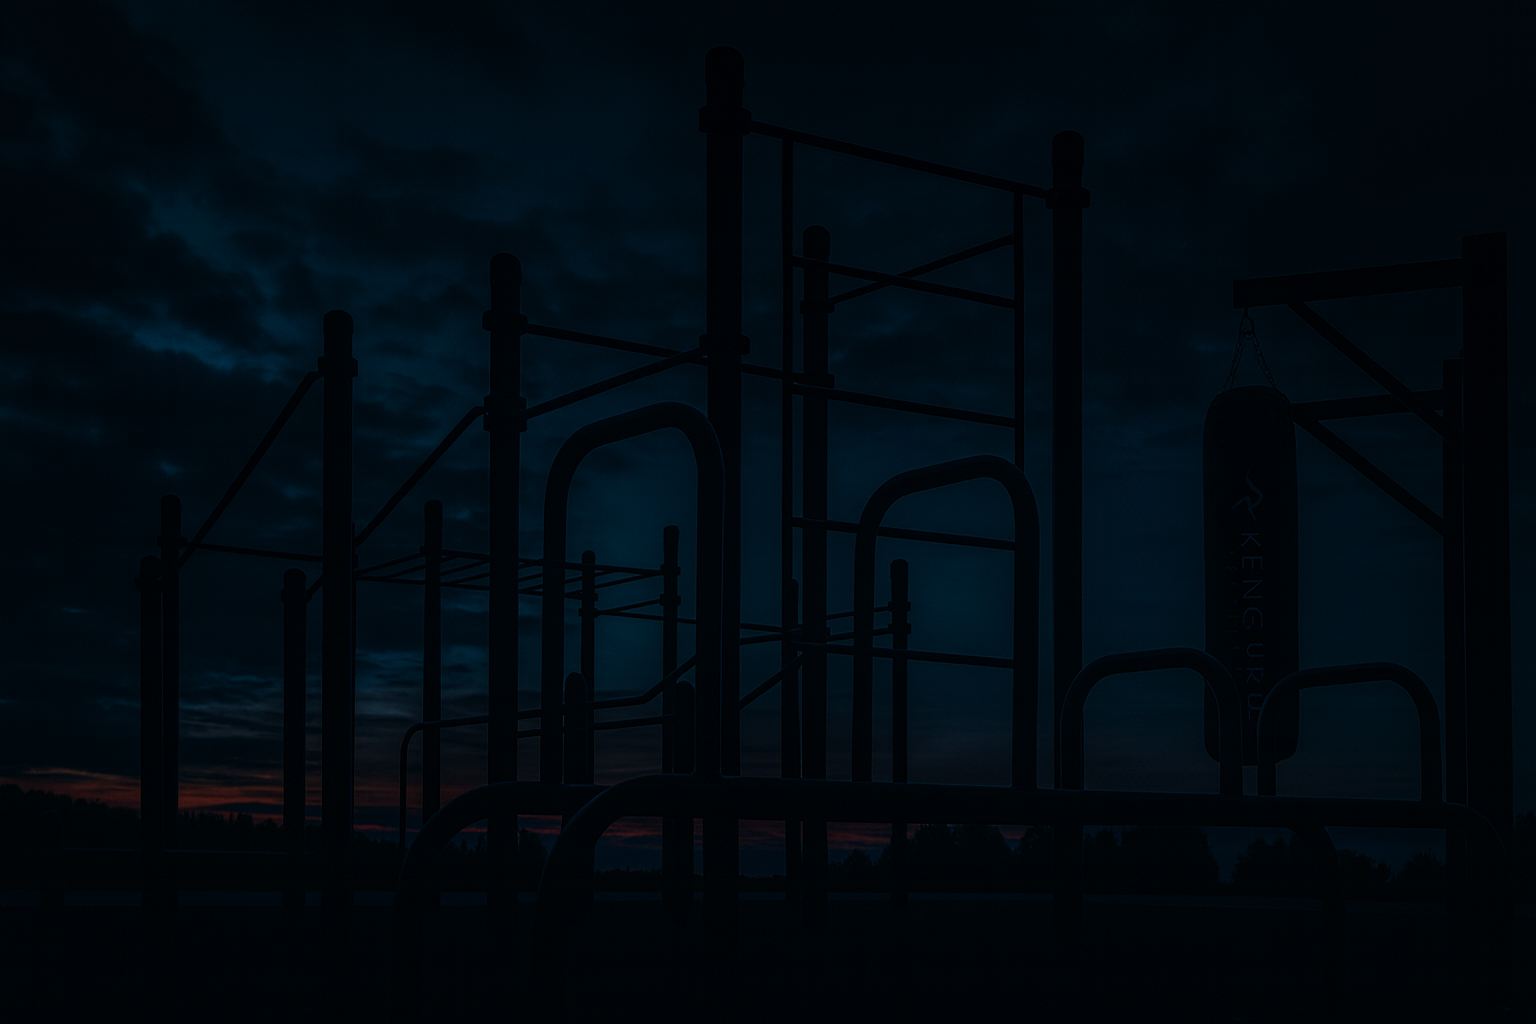
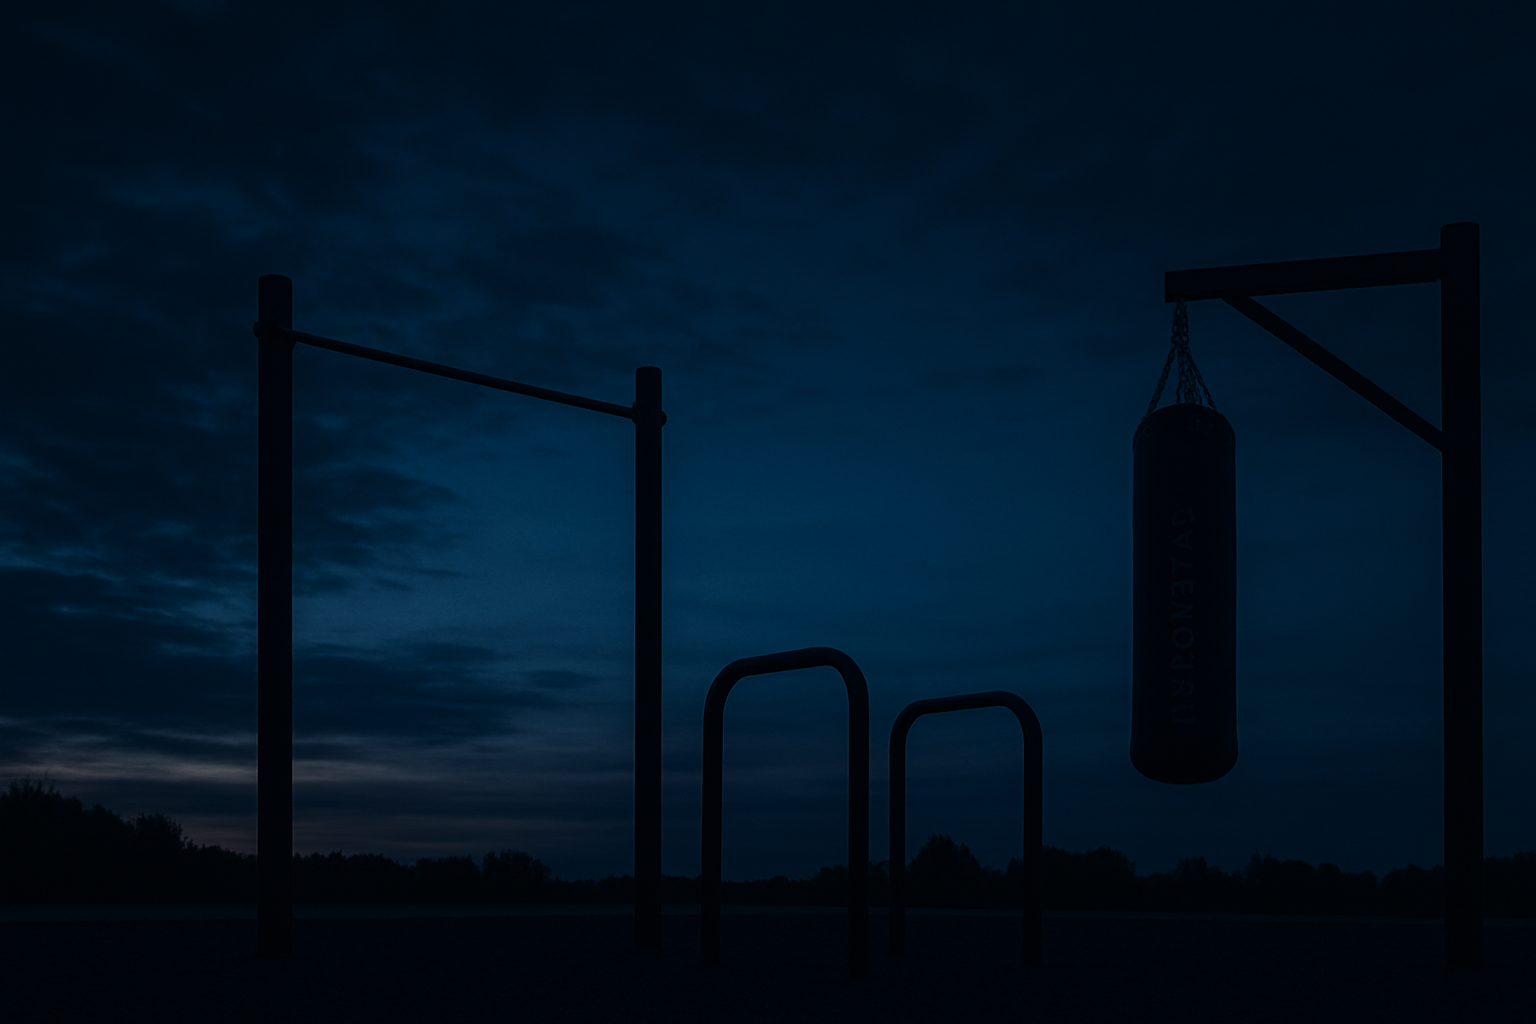
Some Styles Changes In Hover Effects On The Blog Page.

diff --git a/swzilina/blog/static/blog/css/blog.scss b/swzilina/blog/static/blog/css/blog.scss
@@ -309,15 +309,13 @@
 
     .articles {
         position: relative;
-        top: 20px;
         width: 100%;
-        margin-bottom: 20px;
+        margin-top: 10px;
         display: flex;
         flex-direction: row;
         justify-content: center;
-        align-items: center;
         flex-wrap: wrap;
-        gap: 20px;
+        gap: 0px;
 
         .no_articles {
             font-family: $article-heading-font;
@@ -329,6 +327,7 @@
             max-width: 500px;
             width: 100%;
             height: 300px;
+            margin: 10px;
             border: 1px solid $secondary-color;
             border-radius: 5px;
             text-align: center;
@@ -345,6 +344,11 @@
             &:hover {
                 transform: scale(1.01);
                 cursor: pointer;
+
+                .description {
+                    transform: translateX(0);
+                    filter: blur(0px);
+                }
             }
 
             .info {
@@ -381,6 +385,26 @@
                 }
             }
 
+            .description {
+                pointer-events: none;
+                position: absolute;
+                display: flex;
+                align-items: center;
+                justify-content: center;
+                width: 100%;
+                height: 300px;
+                background-color: transparentize($main-color, 0.8);
+                z-index: 50;
+                transform: translateX(-100%);
+                filter: blur(5px);
+                transition: transform 0.3s ease, filter 0.1s ease;
+
+                p {
+                    padding: 0px 20px;
+                    text-align: justify;
+                }
+            }
+
             a {
                 display: block;
                 width: 100%;
@@ -394,6 +418,7 @@
                     margin-bottom: 3.75px;
                     font-family: $article-heading-font;
                     color: $article-color;
+                    text-shadow: 0px 0px 10px $main-color;
                 }
 
                 .article_info {
@@ -481,7 +506,7 @@
         align-items: center;
         gap: 20px;
         width: 100%;
-        padding-top: 20px;
+        padding-top: 10px;
 
         input {
             width: 240px;

diff --git a/swzilina/blog/static/blog/css/blog.css b/swzilina/blog/static/blog/css/blog.css
@@ -248,15 +248,13 @@
 }
 .content .articles {
   position: relative;
-  top: 20px;
   width: 100%;
-  margin-bottom: 20px;
+  margin-top: 10px;
   display: flex;
   flex-direction: row;
   justify-content: center;
-  align-items: center;
   flex-wrap: wrap;
-  gap: 20px;
+  gap: 0px;
 }
 .content .articles .no_articles {
   font-family: "Balsamiq Sans", sans-serif;
@@ -267,6 +265,7 @@
   max-width: 500px;
   width: 100%;
   height: 300px;
+  margin: 10px;
   border: 1px solid #fff;
   border-radius: 5px;
   text-align: center;
@@ -280,6 +279,10 @@
 .content .articles article:hover {
   transform: scale(1.01);
   cursor: pointer;
+}
+.content .articles article:hover .description {
+  transform: translateX(0);
+  filter: blur(0px);
 }
 .content .articles article .info {
   position: absolute;
@@ -309,6 +312,24 @@
 .content .articles article .share i:hover {
   color: #cccccc;
 }
+.content .articles article .description {
+  pointer-events: none;
+  position: absolute;
+  display: flex;
+  align-items: center;
+  justify-content: center;
+  width: 100%;
+  height: 300px;
+  background-color: rgba(0, 0, 0, 0.2);
+  z-index: 50;
+  transform: translateX(-100%);
+  filter: blur(5px);
+  transition: transform 0.3s ease, filter 0.1s ease;
+}
+.content .articles article .description p {
+  padding: 0px 20px;
+  text-align: justify;
+}
 .content .articles article a {
   display: block;
   width: 100%;
@@ -323,6 +344,7 @@
   margin-bottom: 3.75px;
   font-family: "Balsamiq Sans", sans-serif;
   color: #ebb914;
+  text-shadow: 0px 0px 10px #000;
 }
 .content .articles article a .article_info {
   position: absolute;
@@ -387,7 +409,7 @@
   align-items: center;
   gap: 20px;
   width: 100%;
-  padding-top: 20px;
+  padding-top: 10px;
 }
 .content .blog_subscribe_form input {
   width: 240px;

diff --git a/swzilina/blog/templates/blog/blog.html b/swzilina/blog/templates/blog/blog.html
@@ -125,9 +125,10 @@
             {% endif %}
         </h2>
 
+        {% comment %} article class="skeleton_loading" {% endcomment %}
         {% for one_article in articles %}
             <article 
-                class="{{ one_article.link }} skeleton_loading"
+                class="{{ one_article.link }}"
                 data-title="{{ one_article.title }}"
                 style="
                     {% if one_article.image_name %}
@@ -160,13 +161,13 @@
                     <p class="share_result"></p>
                 </div>
 
+                <div class="description skeleton_loading skeleton_text">
+                    <p class="hidden">{{ one_article.content|truncatechars:200 }}</p>
+                </div>
+
                 <a href="{% url 'blog_theme_url' one_article.link %}" title="Zobraziť" target="_self">
                     <div class="skeleton_loading skeleton_text">
                         <h2 class="hidden">{{ one_article.title }}</h2>
-                    </div>
-                    
-                    <div class="skeleton_loading skeleton_text">
-                        <p class="hidden">{{ one_article.content|truncatechars:100 }}</p>
                     </div>
 
                     <div class="article_info">

diff --git a/swzilina/static/css/style.scss b/swzilina/static/css/style.scss
@@ -205,8 +205,8 @@
 main {
     min-height: 100vh;
     padding-bottom: 100vh;
-    // background: linear-gradient(transparentize($main-color, 0.8), transparentize($main-color, 0.2)), url("../images/background.jpg"); // https://kengurupro.eu/wp-content/uploads/2022/10/2-1-1-2.jpg
-    background: url("../images/bg.png"); // https://chatgpt.com/
+    background: linear-gradient(transparentize($main-color, 1), transparentize($main-color, 0.8)), url("../images/bg.png"); // https://chatgpt.com/
+    // https://kengurupro.eu/wp-content/uploads/2022/10/2-1-1-2.jpg
     color: $secondary-color;
 
     background: {
@@ -312,6 +312,7 @@ main {
 
         a {
             text-decoration: none;
+            text-shadow: 0px 0px 5px $main-color;
             color: $secondary-color;
             animation: fade_in_animation 2s ease-out;
             transition: letter-spacing 0.3s ease;

diff --git a/swzilina/static/css/style.css b/swzilina/static/css/style.css
@@ -141,7 +141,7 @@
 main {
   min-height: 100vh;
   padding-bottom: 100vh;
-  background: url("../images/bg.png");
+  background: linear-gradient(rgba(0, 0, 0, 0), rgba(0, 0, 0, 0.2)), url("../images/bg.png");
   color: #fff;
   background-size: cover;
   background-position: center;
@@ -228,6 +228,7 @@ main {
 }
 .header_container h1 a {
   text-decoration: none;
+  text-shadow: 0px 0px 5px #000;
   color: #fff;
   animation: fade_in_animation 2s ease-out;
   transition: letter-spacing 0.3s ease;